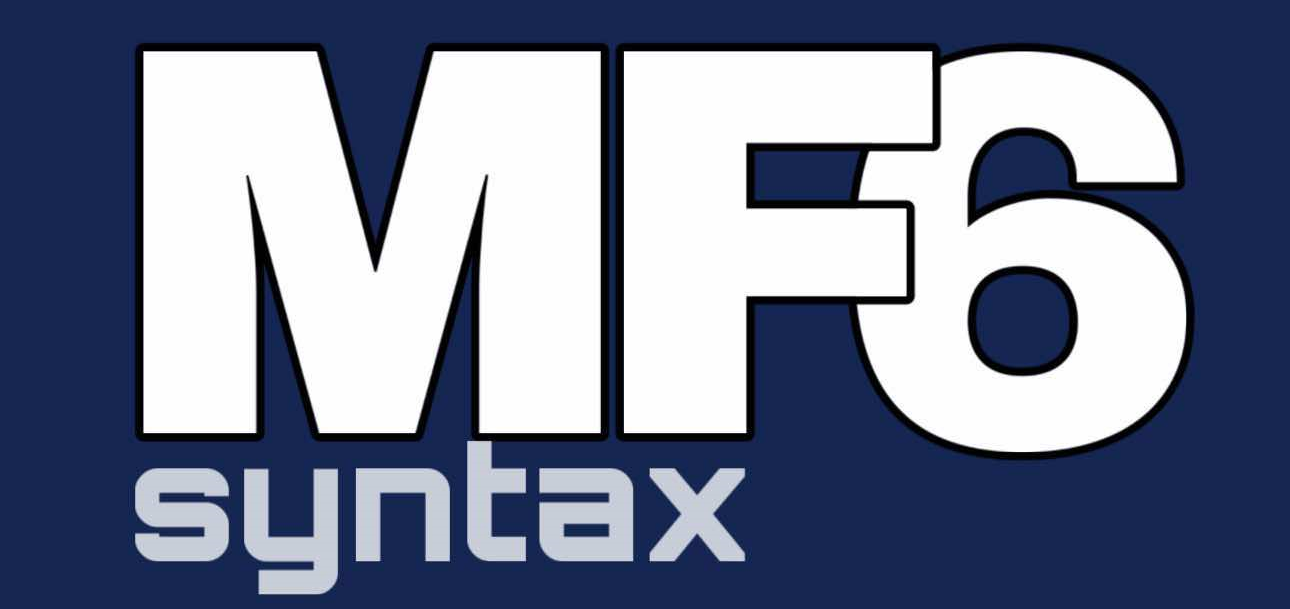
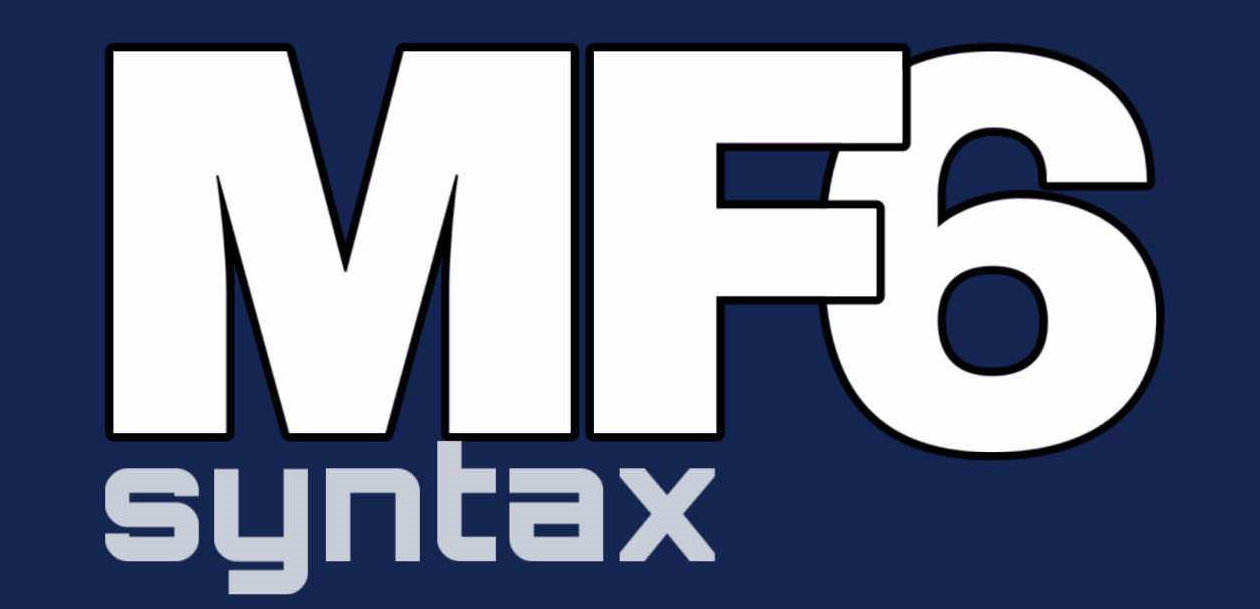
Update readme for beta release (#45)
* Update readme pre-beta

* Crop readme banner image

* Add beta status note to readme

* Add demo gif

diff --git a/README.md b/README.md
@@ -1,29 +1,32 @@
 # VS Code MODFLOW 6 Syntax
 
-[![TextMate Grammar](https://github.com/martclanor/vscode-mf6-syntax/actions/workflows/tmgrammar.yaml/badge.svg)](https://github.com/martclanor/vscode-mf6-syntax/actions/workflows/tmgrammar.yaml)
+[![CI](https://github.com/martclanor/vscode-mf6-syntax/actions/workflows/ci.yaml/badge.svg)](https://github.com/martclanor/vscode-mf6-syntax/actions/workflows/ci.yaml)
 ![GitHub package.json version](https://img.shields.io/github/package-json/v/martclanor/vscode-mf6-syntax)
 ![GitHub License](https://img.shields.io/github/license/martclanor/vscode-mf6-syntax)
 
 ![Icon](images/icon_banner.png)
 
-This extension provides syntax highlighting support for MODFLOW 6 input files in VS Code. This is based on TextMate grammar that is derived from MF6 definition files. The primary goal of this project is to make MF6 input files a bit easier on the eyes.
+> [!NOTE]
+> This project is currently in beta. Features and functionality may change, and there may be bugs. Feedback and contributions to help improve the project are much appreciated.
+
+This VS Code extension provides syntax highlighting support and rich language features for [MODFLOW 6](https://modflow6.readthedocs.io/en/stable/index.html). It enhances the readability and editing experience for MF6 files by leveraging specifications directly from MF6 [DFN](https://modflow6.readthedocs.io/en/stable/_dev/dfn.html) files.
 
 ## Features
 
-- Basic syntax highlighting based on MF6 definition files
+- Syntax highlighting based on MF6 DFN files
   ![Syntax Highlighting](images/sample.png)
 - Go-to-definition for linked files with different methods:
 
   - ctrl + click
   - `Go To Definition` keybinding (default: `F12`)
   - right-click -> `Go To Definition`
-  - right-click -> `Peek` -> `Peek Definition`
 
-- Code folding based on MF6 block structure
-- Code snippets based on MF6 block structure
-- Others: comment-toggling, auto-closing quotes, surrounding quotes
+  ![Demo](images/demo.gif)
+
+- Others: code folding, snippets, comment-toggling, auto-closing quotes, surrounding quotes
 
 ## Usage
 
-- The extension activates based on the file's extension. If not detected, use `MF6 Syntax: Syntax-highlight as MF6 file` command to set MF6 as the language mode.
-- VS Code's minimap can display enlarged section headers (block names), which may appear cluttered. To simplify the view, disable this feature by setting `editor.minimap.showRegionSectionHeaders` to `false`.
+- The extension activates based on the file's extension. If not detected, use `MF6 Syntax: Set language to MF6`. Alternatively, use the `Change Language Mode` command to set the language manually.
+- To navigate to a linked file, use the `Go To Definition` keybinding or right-click on the linked file and select `Go To Definition`.
+- VS Code's minimap can display enlarged section headers (MF6 block names), which may appear cluttered. To simplify the view, disable this feature by setting `editor.minimap.showRegionSectionHeaders` to `false`.
